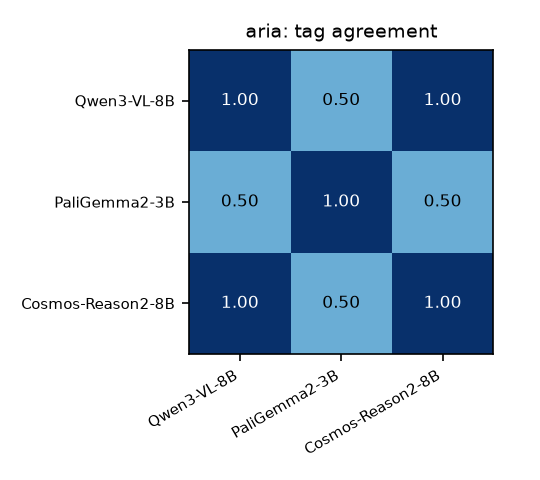
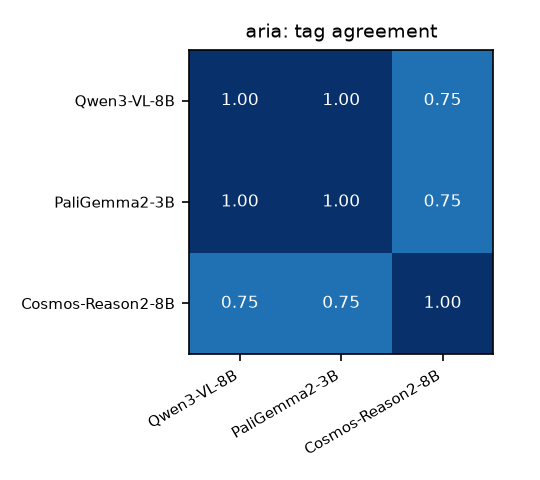
Report: p_done_max as the aria tag statistic, both stats shown for every set
Long egocentric episodes end with the person looking away, so the last-
quarter mean reads No everywhere; the peak recovers 8/8 (Qwen, PaliGemma)
and 6/8 (Cosmos). Shown next to the eva caution that max over-calls
success (17/20 vs 10/10 truth) so the per-dataset choice is explicit.

Changed region(s): [[0.3259, 0.0938, 0.9185, 0.75]]

diff --git a/multi-model-modal/fuse/report.py b/multi-model-modal/fuse/report.py
@@ -36,6 +36,11 @@ DATASETS = {
               "human egocentric cup-on-saucer episodes (aria), unlabelled"),
 }
 MODELS = ["qwen", "paligemma", "cosmos"]
+# Which trace statistic tags an episode. `late` = mean p(done) over the last quarter of
+# frames — right when the episode ends on the goal state (short clips, fixed camera). `max`
+# = peak p(done) — for long egocentric episodes where the person looks away after placing
+# the cup, so the goal state is not in view at the end. Stated per dataset, not tuned.
+TAG_STAT = {"eva": "late", "cup50": "late", "aria": "max"}
 NICE = {"qwen": "Qwen3-VL-8B", "paligemma": "PaliGemma2-3B", "cosmos": "Cosmos-Reason2-8B"}
 
 
@@ -61,11 +66,15 @@ def collect():
                 if not vf:
                     continue
                 sf = seg_features(seg.get(ep, {})) if ep in seg else {}
+                stat = vf["p_done_max"] if TAG_STAT.get(ds) == "max" else vf["p_done_late"]
                 rows.append({
                     "dataset": ds, "model": m, "episode": ep, "label": label_of(rec),
                     "p_done_late": vf["p_done_late"], "p_done_max": vf["p_done_max"],
+                    "stat": stat, "stat_name": TAG_STAT.get(ds, "late"),
                     "trace": rec["p_yes"], "thresh": thresh,
-                    "pred": "success" if vf["p_done_late"] > thresh else "failure",
+                    "pred": "success" if stat > thresh else "failure",
+                    "pred_late": "success" if vf["p_done_late"] > thresh else "failure",
+                    "pred_max": "success" if vf["p_done_max"] > thresh else "failure",
                     "seg_score": sf.get("seg_score"),
                     "top_tokens": rec.get("last_frame_top_tokens"),
                 })
@@ -107,13 +116,18 @@ def main():
                 acc_s, au_s = f"{acc:.2f}", f"{au:.2f}"
             else:
                 acc_s = au_s = "—"
-            summ.append([ds, NICE[m], n, ns, n - ns, f"{100*(n-ns)/n:.0f}%",
-                         f"{np.mean([r['p_done_late'] for r in sub]):.3f}", acc_s, au_s])
-    md.append(md_table(["dataset", "model", "n", "tagged success", "tagged failure",
-                        "failure prevalence", "mean p_done_late", "accuracy", "AUROC"], summ))
-    md.append("\nAccuracy/AUROC only where ground truth exists (eva). Tags: `p_done_late` "
-              "(mean p(done) over the last quarter of frames) ≥ 0.5 → success. AUROC is "
-              "threshold-free.\n")
+            ns_late = sum(r["pred_late"] == "success" for r in sub)
+            ns_max = sum(r["pred_max"] == "success" for r in sub)
+            summ.append([ds, NICE[m], n, sub[0]["stat_name"], ns, n - ns, f"{100*(n-ns)/n:.0f}%",
+                         f"{ns_late}/{n}", f"{ns_max}/{n}", acc_s, au_s])
+    md.append(md_table(["dataset", "model", "n", "tag stat", "tagged success", "tagged failure",
+                        "failure prevalence", "success @late", "success @max", "accuracy", "AUROC"], summ))
+    md.append("\nAccuracy/AUROC only where ground truth exists (eva); AUROC is threshold-free. "
+              "Tag = stat ≥ 0.5. `late` = mean p(done) over the last quarter of frames; `max` = "
+              "peak p(done). **aria uses `max`**: those are 80–140 s egocentric episodes and the "
+              "person looks away after placing the cup, so the goal state is not in view at the "
+              "end — `late` reads No for everything (0/8 under Qwen and Cosmos). Both counts are "
+              "shown for every set so the choice is visible, not hidden.\n")
 
     # ---------------- SEG-only prevalence (cup50 has 50 SEG traces) ---------------------
     for ds, (_, sdir, _, _) in DATASETS.items():
@@ -137,7 +151,7 @@ def main():
         eps = sorted({r["episode"] for r in sub})
         models_here = [m for m in MODELS if any(r["model"] == m for r in sub)]
         md.append(f"### {ds} — {DATASETS[ds][3]}\n")
-        hdr = ["episode", "label"] + [f"{NICE[m]}" for m in models_here] + ["SEG", "consensus"]
+        hdr = ["episode", "label"] + [f"{NICE[m]} ({TAG_STAT.get(ds,'late')})" for m in models_here] + ["SEG", "consensus"]
         body = []
         for ep in eps:
             r0 = next(r for r in sub if r["episode"] == ep)
@@ -147,7 +161,7 @@ def main():
                 r = next((r for r in sub if r["episode"] == ep and r["model"] == m), None)
                 if r:
                     preds.append(r["pred"])
-                    cells.append(f"{'✅' if r['pred']=='success' else '❌'} {r['p_done_late']:.2f}")
+                    cells.append(f"{'✅' if r['pred']=='success' else '❌'} {r['stat']:.2f} (late {r['p_done_late']:.2f} / max {r['p_done_max']:.2f})")
                 else:
                     cells.append("—")
             seg_s = r0.get("seg_score")

diff --git a/results/README.md b/results/README.md
@@ -4,17 +4,17 @@ Generated by `fuse/report.py` from the traces on disk.
 
 ## Per-model summary
 
-| dataset | model | n | tagged success | tagged failure | failure prevalence | mean p_done_late | accuracy | AUROC |
-|---|---|---|---|---|---|---|---|---|
-| eva | Qwen3-VL-8B | 20 | 10 | 10 | 50% | 0.451 | 0.70 | 0.83 |
-| cup50 | Qwen3-VL-8B | 9 | 8 | 1 | 11% | 0.779 | — | — |
-| cup50 | PaliGemma2-3B | 8 | 3 | 5 | 62% | 0.477 | — | — |
-| cup50 | Cosmos-Reason2-8B | 8 | 7 | 1 | 12% | 0.799 | — | — |
-| aria | Qwen3-VL-8B | 8 | 0 | 8 | 100% | 0.199 | — | — |
-| aria | PaliGemma2-3B | 8 | 4 | 4 | 50% | 0.473 | — | — |
-| aria | Cosmos-Reason2-8B | 8 | 0 | 8 | 100% | 0.254 | — | — |
+| dataset | model | n | tag stat | tagged success | tagged failure | failure prevalence | success @late | success @max | accuracy | AUROC |
+|---|---|---|---|---|---|---|---|---|---|---|
+| eva | Qwen3-VL-8B | 20 | late | 10 | 10 | 50% | 10/20 | 17/20 | 0.70 | 0.83 |
+| cup50 | Qwen3-VL-8B | 9 | late | 8 | 1 | 11% | 8/9 | 8/9 | — | — |
+| cup50 | PaliGemma2-3B | 8 | late | 3 | 5 | 62% | 3/8 | 8/8 | — | — |
+| cup50 | Cosmos-Reason2-8B | 8 | late | 7 | 1 | 12% | 7/8 | 8/8 | — | — |
+| aria | Qwen3-VL-8B | 8 | max | 8 | 0 | 0% | 0/8 | 8/8 | — | — |
+| aria | PaliGemma2-3B | 8 | max | 8 | 0 | 0% | 4/8 | 8/8 | — | — |
+| aria | Cosmos-Reason2-8B | 8 | max | 6 | 2 | 25% | 0/8 | 6/8 | — | — |
 
-Accuracy/AUROC only where ground truth exists (eva). Tags: `p_done_late` (mean p(done) over the last quarter of frames) ≥ 0.5 → success. AUROC is threshold-free.
+Accuracy/AUROC only where ground truth exists (eva); AUROC is threshold-free. Tag = stat ≥ 0.5. `late` = mean p(done) over the last quarter of frames; `max` = peak p(done). **aria uses `max`**: those are 80–140 s egocentric episodes and the person looks away after placing the cup, so the goal state is not in view at the end — `late` reads No for everything (0/8 under Qwen and Cosmos). Both counts are shown for every set so the choice is visible, not hidden.
 
 **SEG-only (eva, 20 episodes):** cup-on-saucer ≥ 0.5 → 10 success / 10 failure (50% failure prevalence).
 
@@ -26,55 +26,55 @@ Accuracy/AUROC only where ground truth exists (eva). Tags: `p_done_late` (mean p
 
 ### eva — 20 eva_bimanual robot episodes, labelled 10/10
 
-| episode | label | Qwen3-VL-8B | SEG | consensus |
+| episode | label | Qwen3-VL-8B (late) | SEG | consensus |
 |---|---|---|---|---|
-| 2026-03-01-21-39-55-154000 | failure | ❌ 0.06 | ✅ 1.00 | split (1/2) |
-| 2026-03-01-21-53-09-065000 | failure | ❌ 0.00 | ❌ 0.00 | failure (0/2) |
-| 2026-03-02-15-45-51-437000 | failure | ❌ 0.24 | ❌ 0.22 | failure (0/2) |
-| 2026-03-02-15-46-41-397000 | failure | ❌ 0.16 | ❌ 0.06 | failure (0/2) |
-| 2026-03-02-16-08-11-055000 | success | ✅ 0.94 | ❌ 0.05 | split (1/2) |
-| 2026-03-03-23-34-24-249000 | failure | ✅ 0.53 | ❌ 0.42 | split (1/2) |
-| 2026-03-03-23-40-31-935000 | success | ✅ 0.87 | ✅ 0.60 | success (2/2) |
-| 2026-03-03-23-41-02-407000 | success | ✅ 0.72 | ❌ 0.25 | split (1/2) |
-| 2026-03-04-19-11-58-058000 | success | ❌ 0.31 | ❌ 0.06 | failure (0/2) |
-| 2026-03-04-19-14-13-994000 | success | ✅ 0.56 | ✅ 0.90 | success (2/2) |
-| 2026-03-04-19-45-48-423000 | failure | ❌ 0.00 | ❌ 0.06 | failure (0/2) |
-| 2026-03-04-19-47-54-081000 | success | ✅ 0.73 | ✅ 0.82 | success (2/2) |
-| 2026-03-04-20-25-12-236000 | failure | ❌ 0.21 | ❌ 0.15 | failure (0/2) |
-| 2026-03-04-20-35-14-105000 | success | ✅ 0.98 | ✅ 1.00 | success (2/2) |
-| 2026-03-04-21-20-46-356000 | failure | ❌ 0.11 | ❌ 0.36 | failure (0/2) |
-| 2026-03-04-21-54-13-056000 | success | ❌ 0.11 | ✅ 1.00 | split (1/2) |
-| 2026-03-04-22-00-39-903000 | success | ❌ 0.30 | ✅ 0.68 | split (1/2) |
-| 2026-03-04-22-36-13-297000 | failure | ✅ 0.57 | ✅ 1.00 | success (2/2) |
-| 2026-03-04-23-11-19-672000 | failure | ✅ 0.84 | ✅ 0.96 | success (2/2) |
-| 2026-03-04-23-18-15-776000 | success | ✅ 0.79 | ✅ 1.00 | success (2/2) |
+| 2026-03-01-21-39-55-154000 | failure | ❌ 0.06 (late 0.06 / max 1.00) | ✅ 1.00 | split (1/2) |
+| 2026-03-01-21-53-09-065000 | failure | ❌ 0.00 (late 0.00 / max 0.00) | ❌ 0.00 | failure (0/2) |
+| 2026-03-02-15-45-51-437000 | failure | ❌ 0.24 (late 0.24 / max 0.68) | ❌ 0.22 | failure (0/2) |
+| 2026-03-02-15-46-41-397000 | failure | ❌ 0.16 (late 0.16 / max 0.78) | ❌ 0.06 | failure (0/2) |
+| 2026-03-02-16-08-11-055000 | success | ✅ 0.94 (late 0.94 / max 1.00) | ❌ 0.05 | split (1/2) |
+| 2026-03-03-23-34-24-249000 | failure | ✅ 0.53 (late 0.53 / max 1.00) | ❌ 0.42 | split (1/2) |
+| 2026-03-03-23-40-31-935000 | success | ✅ 0.87 (late 0.87 / max 1.00) | ✅ 0.60 | success (2/2) |
+| 2026-03-03-23-41-02-407000 | success | ✅ 0.72 (late 0.72 / max 1.00) | ❌ 0.25 | split (1/2) |
+| 2026-03-04-19-11-58-058000 | success | ❌ 0.31 (late 0.31 / max 0.99) | ❌ 0.06 | failure (0/2) |
+| 2026-03-04-19-14-13-994000 | success | ✅ 0.56 (late 0.56 / max 1.00) | ✅ 0.90 | success (2/2) |
+| 2026-03-04-19-45-48-423000 | failure | ❌ 0.00 (late 0.00 / max 0.38) | ❌ 0.06 | failure (0/2) |
+| 2026-03-04-19-47-54-081000 | success | ✅ 0.73 (late 0.73 / max 0.82) | ✅ 0.82 | success (2/2) |
+| 2026-03-04-20-25-12-236000 | failure | ❌ 0.21 (late 0.21 / max 0.95) | ❌ 0.15 | failure (0/2) |
+| 2026-03-04-20-35-14-105000 | success | ✅ 0.98 (late 0.98 / max 1.00) | ✅ 1.00 | success (2/2) |
+| 2026-03-04-21-20-46-356000 | failure | ❌ 0.11 (late 0.11 / max 0.99) | ❌ 0.36 | failure (0/2) |
+| 2026-03-04-21-54-13-056000 | success | ❌ 0.11 (late 0.11 / max 0.27) | ✅ 1.00 | split (1/2) |
+| 2026-03-04-22-00-39-903000 | success | ❌ 0.30 (late 0.30 / max 0.73) | ✅ 0.68 | split (1/2) |
+| 2026-03-04-22-36-13-297000 | failure | ✅ 0.57 (late 0.57 / max 0.73) | ✅ 1.00 | success (2/2) |
+| 2026-03-04-23-11-19-672000 | failure | ✅ 0.84 (late 0.84 / max 1.00) | ✅ 0.96 | success (2/2) |
+| 2026-03-04-23-18-15-776000 | success | ✅ 0.79 (late 0.79 / max 1.00) | ✅ 1.00 | success (2/2) |
 
 ### cup50 — human cup-on-saucer clips (somundane/egoverse-cup50), unlabelled
 
-| episode | label | Qwen3-VL-8B | PaliGemma2-3B | Cosmos-Reason2-8B | SEG | consensus |
+| episode | label | Qwen3-VL-8B (late) | PaliGemma2-3B (late) | Cosmos-Reason2-8B (late) | SEG | consensus |
 |---|---|---|---|---|---|---|
-| 2025-11-14-16-19-50-305000 | — | ✅ 0.53 | — | — | ✅ 0.50 | success (2/2) |
-| 692e98927641010d04354574 | — | ✅ 1.00 | ✅ 0.58 | ✅ 0.96 | ✅ 1.00 | success (4/4) |
-| 692e9b6668228e362d908f0e | — | ✅ 1.00 | ❌ 0.32 | ✅ 0.94 | ✅ 1.00 | success (3/4) |
-| 692e9fa092a31767e35da22c | — | ✅ 0.92 | ❌ 0.41 | ✅ 0.75 | ✅ 1.00 | success (3/4) |
-| 692ea164e2322e3b092b5dd8 | — | ✅ 1.00 | ❌ 0.47 | ✅ 0.88 | ✅ 1.00 | success (3/4) |
-| 692ea2012c8fefa9948e8dd0 | — | ✅ 1.00 | ✅ 0.55 | ✅ 0.95 | ✅ 1.00 | success (4/4) |
-| 692ea3beffdc0ca6345c4246 | — | ❌ 0.00 | ❌ 0.47 | ❌ 0.32 | ✅ 1.00 | failure (1/4) |
-| 692ea4da74b24813e759755d | — | ✅ 1.00 | ✅ 0.59 | ✅ 0.86 | ✅ 1.00 | success (4/4) |
-| 692ea671dbc4294a49cc727e | — | ✅ 0.56 | ❌ 0.44 | ✅ 0.73 | ❌ 0.00 | split (2/4) |
+| 2025-11-14-16-19-50-305000 | — | ✅ 0.53 (late 0.53 / max 1.00) | — | — | ✅ 0.50 | success (2/2) |
+| 692e98927641010d04354574 | — | ✅ 1.00 (late 1.00 / max 1.00) | ✅ 0.58 (late 0.58 / max 0.68) | ✅ 0.96 (late 0.96 / max 0.96) | ✅ 1.00 | success (4/4) |
+| 692e9b6668228e362d908f0e | — | ✅ 1.00 (late 1.00 / max 1.00) | ❌ 0.32 (late 0.32 / max 0.56) | ✅ 0.94 (late 0.94 / max 0.97) | ✅ 1.00 | success (3/4) |
+| 692e9fa092a31767e35da22c | — | ✅ 0.92 (late 0.92 / max 0.98) | ❌ 0.41 (late 0.41 / max 0.59) | ✅ 0.75 (late 0.75 / max 0.75) | ✅ 1.00 | success (3/4) |
+| 692ea164e2322e3b092b5dd8 | — | ✅ 1.00 (late 1.00 / max 1.00) | ❌ 0.47 (late 0.47 / max 0.58) | ✅ 0.88 (late 0.88 / max 0.88) | ✅ 1.00 | success (3/4) |
+| 692ea2012c8fefa9948e8dd0 | — | ✅ 1.00 (late 1.00 / max 1.00) | ✅ 0.55 (late 0.55 / max 0.68) | ✅ 0.95 (late 0.95 / max 0.95) | ✅ 1.00 | success (4/4) |
+| 692ea3beffdc0ca6345c4246 | — | ❌ 0.00 (late 0.00 / max 0.38) | ❌ 0.47 (late 0.47 / max 0.55) | ❌ 0.32 (late 0.32 / max 0.78) | ✅ 1.00 | failure (1/4) |
+| 692ea4da74b24813e759755d | — | ✅ 1.00 (late 1.00 / max 1.00) | ✅ 0.59 (late 0.59 / max 0.71) | ✅ 0.86 (late 0.86 / max 0.90) | ✅ 1.00 | success (4/4) |
+| 692ea671dbc4294a49cc727e | — | ✅ 0.56 (late 0.56 / max 0.94) | ❌ 0.44 (late 0.44 / max 0.56) | ✅ 0.73 (late 0.73 / max 0.85) | ❌ 0.00 | split (2/4) |
 
 ### aria — human egocentric cup-on-saucer episodes (aria), unlabelled
 
-| episode | label | Qwen3-VL-8B | PaliGemma2-3B | Cosmos-Reason2-8B | SEG | consensus |
+| episode | label | Qwen3-VL-8B (max) | PaliGemma2-3B (max) | Cosmos-Reason2-8B (max) | SEG | consensus |
 |---|---|---|---|---|---|---|
-| 2025-11-24-23-59-28-546000 | — | ❌ 0.22 | ✅ 0.52 | ❌ 0.25 | ❌ 0.29 | failure (1/4) |
-| 2025-11-25-23-53-35-467000 | — | ❌ 0.05 | ❌ 0.38 | ❌ 0.06 | ❌ 0.14 | failure (0/4) |
-| 2025-11-27-23-12-34-299000 | — | ❌ 0.11 | ✅ 0.52 | ❌ 0.17 | ✅ 0.53 | split (2/4) |
-| 2025-11-27-23-13-48-498000 | — | ❌ 0.06 | ❌ 0.49 | ❌ 0.08 | ✅ 0.55 | failure (1/4) |
-| 2025-11-27-23-15-59-065000 | — | ❌ 0.06 | ❌ 0.47 | ❌ 0.36 | ❌ 0.48 | failure (0/4) |
-| 2025-11-27-23-16-45-029000 | — | ❌ 0.40 | ✅ 0.54 | ❌ 0.39 | — | failure (1/3) |
-| 2025-11-27-23-18-17-895000 | — | ❌ 0.33 | ❌ 0.32 | ❌ 0.38 | — | failure (0/3) |
-| 2025-11-27-23-45-29-883000 | — | ❌ 0.36 | ✅ 0.55 | ❌ 0.35 | — | failure (1/3) |
+| 2025-11-24-23-59-28-546000 | — | ✅ 1.00 (late 0.22 / max 1.00) | ✅ 0.69 (late 0.52 / max 0.69) | ✅ 0.99 (late 0.25 / max 0.99) | ❌ 0.29 | success (3/4) |
+| 2025-11-25-23-53-35-467000 | — | ✅ 0.88 (late 0.05 / max 0.88) | ✅ 0.61 (late 0.38 / max 0.61) | ❌ 0.47 (late 0.06 / max 0.47) | ❌ 0.14 | split (2/4) |
+| 2025-11-27-23-12-34-299000 | — | ✅ 0.78 (late 0.11 / max 0.78) | ✅ 0.67 (late 0.52 / max 0.67) | ✅ 0.56 (late 0.17 / max 0.56) | ✅ 0.53 | success (4/4) |
+| 2025-11-27-23-13-48-498000 | — | ✅ 0.56 (late 0.06 / max 0.56) | ✅ 0.65 (late 0.49 / max 0.65) | ❌ 0.29 (late 0.08 / max 0.29) | ✅ 0.55 | success (3/4) |
+| 2025-11-27-23-15-59-065000 | — | ✅ 0.99 (late 0.06 / max 0.99) | ✅ 0.65 (late 0.47 / max 0.65) | ✅ 0.88 (late 0.36 / max 0.88) | ❌ 0.48 | success (3/4) |
+| 2025-11-27-23-16-45-029000 | — | ✅ 1.00 (late 0.40 / max 1.00) | ✅ 0.69 (late 0.54 / max 0.69) | ✅ 0.99 (late 0.39 / max 0.99) | — | success (3/3) |
+| 2025-11-27-23-18-17-895000 | — | ✅ 1.00 (late 0.33 / max 1.00) | ✅ 0.58 (late 0.32 / max 0.58) | ✅ 0.97 (late 0.38 / max 0.97) | — | success (3/3) |
+| 2025-11-27-23-45-29-883000 | — | ✅ 1.00 (late 0.36 / max 1.00) | ✅ 0.74 (late 0.55 / max 0.74) | ✅ 0.96 (late 0.35 / max 0.96) | — | success (3/3) |
 
 ## What the model wanted to say (top-5 first tokens, last frame)
 

diff --git a/README.md b/README.md
@@ -38,6 +38,18 @@ container** and written to both a local `<model>_out/` folder and the `egoverse-
 ([somundane/egoverse-cup50](https://huggingface.co/datasets/somundane/egoverse-cup50)), SEG criterion:
 **36 success / 14 failure → 28% failure prevalence.**
 
+**Human sets, three critics** (8 episodes each, `p(done)` ≥ 0.5 → success):
+
+| set | statistic | Qwen3-VL-8B | PaliGemma2-3B | Cosmos-Reason2-8B |
+|---|---|---|---|---|
+| cup50 short clips | `late` (end of clip) | 8/9 success | 3/8 | 7/8 |
+| aria 80–140 s egocentric | `max` (peak) | 8/8 success | 8/8 | 6/8 |
+
+Why `max` for aria: the person looks away after placing the cup, so the goal state is not in
+view at the end and `late` reads No for everything (0/8). The same statistic on the labelled
+eva slice over-calls success (17/20), because a cup passing over the saucer mid-attempt also
+peaks — so it is a per-dataset choice, stated, and both counts are shown for every set.
+
 **Cross-model report with graphs: [`results/`](results/README.md)** — ROC curves, p(done) traces per episode, tags per dataset × model (Qwen3-VL-8B, PaliGemma 2, Cosmos-Reason2-8B), model agreement, and what each model's top tokens actually were.
 
 Full tables: [`demo/eva_fusion_summary.md`](demo/eva_fusion_summary.md),
